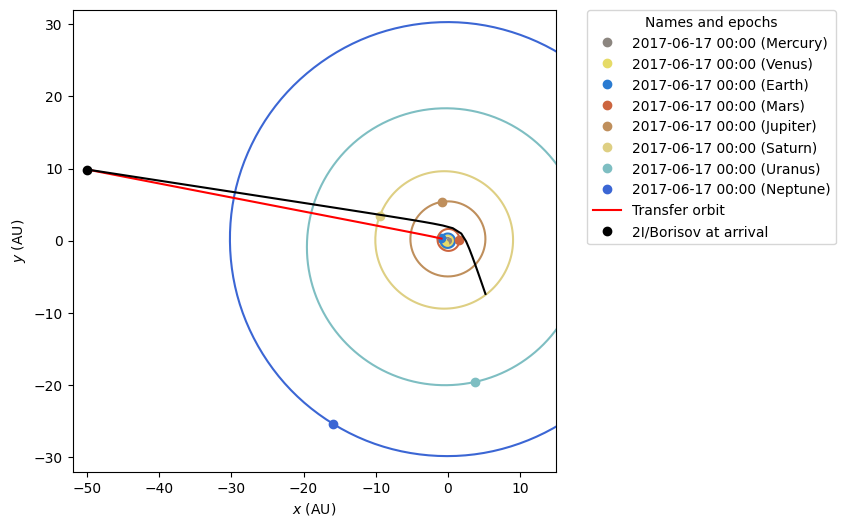
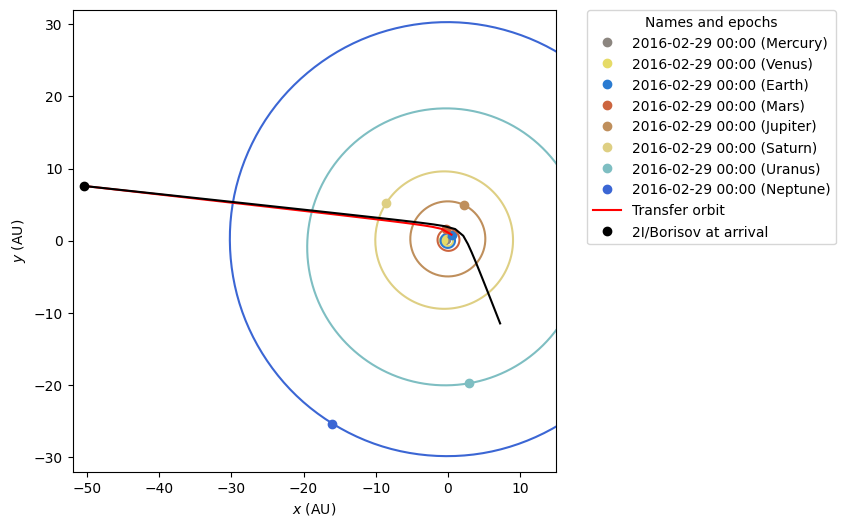
feat: add optimum transfer orbit figs

diff --git a/bin/oumuamua_direct_transfer_opt.py b/bin/oumuamua_direct_transfer_opt.py
@@ -13,29 +13,29 @@ from matplotlib import pyplot as plt
 
 
 # Compute ephemeris
-epochs = time_range("2016-02-29", end="2032-01-01", scale="tdb")
+epochs = time_range("2017-06-17", end="2032-01-01", scale="tdb", num_values=75)
 earth_ephem = Ephem.from_body(Earth, epochs=epochs)
-borisov_ephem = Ephem.from_horizons("C/2019 Q4", epochs)
+oumuamua_ephem = Ephem.from_horizons("'Oumuamua", epochs)
 
 # Declare launch and arrival dates
-launch_date = Time("2016-02-29", scale="tdb")
+launch_date = Time("2017-06-17", scale="tdb")
 arrival_date = Time("2032-01-01", scale="tdb")
 
 # Compute Earth and 2I/Borisov orbits at launch and arrival
 earth_at_launch = Orbit.from_ephem(Sun, earth_ephem, epoch=launch_date)
 earth_at_arrival = Orbit.from_ephem(Sun, earth_ephem, epoch=arrival_date)
-borisov_at_launch = Orbit.from_ephem(Sun, borisov_ephem, epoch=launch_date)
-borisov_at_arrival = Orbit.from_ephem(Sun, borisov_ephem, epoch=arrival_date)
+oumuamua_at_launch = Orbit.from_ephem(Sun, oumuamua_ephem, epoch=launch_date)
+oumuamua_at_arrival = Orbit.from_ephem(Sun, oumuamua_ephem, epoch=arrival_date)
 
 # Compute the transfer orbit
-maneuver = Maneuver.lambert(earth_at_launch, borisov_at_arrival)
+maneuver = Maneuver.lambert(earth_at_launch, oumuamua_at_arrival)
 transfer_orbit, _ = earth_at_launch.apply_maneuver(maneuver, intermediate=True)
 
 plotter = plot_solar_system(epoch=launch_date, outer=True, plane=Planes.EARTH_EQUATOR, length_scale_units=u.AU)
 plotter.plot_ephem(transfer_orbit.to_ephem(strategy=EpochsArray(epochs)),
                    label="Transfer orbit", color="red")
-plotter.plot_ephem(borisov_ephem, epoch=arrival_date, label="2I/Borisov at arrival", color="black")
-plotter.backend.ax.set_xlim(-52, 15)
-plotter.backend.ax.set_ylim(-32, 32)
-plt.savefig("fig/static/borisov/direct-optimum-transfer.png", bbox_inches="tight")
+plotter.plot_ephem(oumuamua_ephem, epoch=arrival_date, label="1I/'Oumuamua at arrival", color="black")
+plotter.backend.ax.set_xlim(-33, 32)
+plotter.backend.ax.set_ylim(-80, 33)
+plt.savefig("fig/static/oumuamua/direct-optimum-transfer.png", bbox_inches="tight")
 plt.show()

diff --git a/src/03_direct/porkchops.tex b/src/03_direct/porkchops.tex
@@ -116,3 +116,24 @@ characteristic energy for each optimum transfer.
     two interstellar objects.}
   \label{tab:direct-transfer-optimum}
 \end{table}
+
+\begin{figure}[H]
+  \centering
+  \includegraphics[width=\textwidth]{static/oumuamua/direct-optimum-transfer.png}
+  \caption{Optimum direct transfer orbit between Earth and 1I/'Oumuamua. The
+    high speed of 'Oumuamua one passing through its perihelion leads to a low
+    resolution in the sampling of points close to this region.}
+  \label{fig:oumuamua-direct-transfer-orbit}
+\end{figure}
+
+
+
+\begin{figure}[H]
+  \centering
+  \includegraphics[width=\textwidth]{static/borisov/direct-optimum-transfer.png}
+  \caption{Optimum direct transfer orbit between Earth and 2I/Borisov. This
+        trajectory does not pass close to the Sun. However, the transfer requires almost $820$
+        km$^2$/s$^2$ to achieve a targeting with the interloper.}
+  \label{fig:borisov-direct-transfer-orbit}
+\end{figure}
+
